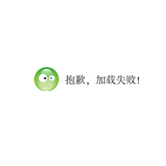
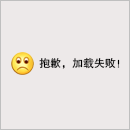
数据改动 占位图片改动

Changed region(s): [[0.0, 0.0, 1.0, 1.0], [0.0615, 0.4, 0.9231, 0.5846]]

diff --git a/XinNet/class/ market/controll/marketController.m b/XinNet/class/ market/controll/marketController.m
@@ -135,10 +135,17 @@
     _pageNum++;
     self.page = [NSString stringWithFormat:@"%d",_pageNum];
     
-     [self addMBprogressView];
     if (_moreSelectedBtn.tag ==30) {
         [marketTOOL statusesWithSuccess:^(NSArray *statues) {
-            [MBProgressHUD hideAllHUDsForView:self.view animated:YES];
+            if (statues.count < 10) {
+                isLoadMore = NO;
+                _footer.hidden = YES;
+                [RemindView showViewWithTitle:@"数据加载完毕" location:MIDDLE];
+            }else
+            {
+                isLoadMore = YES;
+                _footer.hidden = NO;
+            }
 
             if (statues.count < 10) {
                 isLoadMore = NO;
@@ -154,12 +161,20 @@
             [_tableView reloadData];
             [refreshView endRefreshing];
         }  keywords_Id:@"" category_Id:_category_Index page:self.page  failure:^(NSError *error) {
-            [MBProgressHUD hideAllHUDsForView:self.view animated:YES];
 
         }];
     }else if (_moreSelectedBtn.tag==31){
         [marketTOOL statusesWithSuccess:^(NSArray *statues) {
-            [MBProgressHUD hideAllHUDsForView:self.view animated:YES];
+            if (statues.count < 10) {
+                isLoadMore = NO;
+                _footer.hidden = YES;
+                [RemindView showViewWithTitle:@"数据加载完毕" location:MIDDLE];
+            }else
+            {
+                isLoadMore = YES;
+                _footer.hidden = NO;
+            }
+
             if (statues.count < 10) {
                 isLoadMore = NO;
                 _footer.hidden = YES;
@@ -175,13 +190,21 @@
             [refreshView endRefreshing];
             
         }  keywords_Id:@"" category_Id:@"4" page:self.page  failure:^(NSError *error) {
-            [MBProgressHUD hideAllHUDsForView:self.view animated:YES];
 
             
         }];
     }else{
     [marketTOOL statusesWithSuccess:^(NSArray *statues) {
-        [MBProgressHUD hideAllHUDsForView:self.view animated:YES];
+        if (statues.count < 10) {
+            isLoadMore = NO;
+            _footer.hidden = YES;
+            [RemindView showViewWithTitle:@"数据加载完毕" location:MIDDLE];
+        }else
+        {
+            isLoadMore = YES;
+            _footer.hidden = NO;
+        }
+
 
         if (statues.count > 0 && statues.count < 10) {
             isLoadMore = NO;
@@ -197,7 +220,6 @@
         [refreshView endRefreshing];
         
     }  keywords_Id:nil category_Id:nil  page:self.page failure:^(NSError *error) {
-        [MBProgressHUD hideAllHUDsForView:self.view animated:YES];
 
         
     }];
@@ -207,7 +229,7 @@
     _tableView=[[UITableView alloc]initWithFrame:CGRectMake(0, 64, kWidth, kHeight-64) style:UITableViewStylePlain];
     _tableView.delegate =self;
     _tableView.dataSource =self;
-    _tableView.hidden = YES;
+    _tableView.hidden = NO;
     _tableView.backgroundColor =[UIColor whiteColor];
     _tableView.showsHorizontalScrollIndicator = NO;
     _tableView.showsVerticalScrollIndicator = NO;
@@ -322,7 +344,12 @@
         cellLine.backgroundColor =HexRGB(0xe6e3e4);
     }
     marketModel *markModel =[_marketArray objectAtIndex:indexPath.row];
-    [cell.marketImage setImageWithURL:[NSURL URLWithString:markModel.coverimage] placeholderImage:placeHoderImage2];
+    if ([markModel.coverimage isKindOfClass:[NSNull class]]) {
+        
+    }else {
+        [cell.marketImage setImageWithURL:[NSURL URLWithString:markModel.coverimage] placeholderImage:placeHoderImage2];
+        
+    }
     cell.timeLabel.text = markModel.create_time;
     if ([markModel.nametitle isKindOfClass:[NSNull class]]) {
         

diff --git a/XinNet/class/ market/views/marketCell.m b/XinNet/class/ market/views/marketCell.m
@@ -19,13 +19,10 @@
     if (self) {
         
         marketImage = [[UIImageView alloc] initWithFrame:CGRectMake(16, 11, 60, 60)];
-        marketImage.image =[UIImage imageNamed:@""];
-        marketImage.backgroundColor =[UIColor lightGrayColor];
         [self addSubview:marketImage];
         
         
         titleName = [[UILabel alloc] initWithFrame:CGRectMake(86, 11, 215, 20)];
-        titleName.text = @"新闻标题";
         titleName.font =[UIFont systemFontOfSize:PxFont(23)];
         [self addSubview:titleName];
         titleName.textColor=HexRGB(0x3a3a3a);
@@ -34,7 +31,6 @@
         
         
         fromLabel = [[UILabel alloc] initWithFrame:CGRectMake(86, 32, 190, 20)];
-        fromLabel.text = @"来源";
         [self addSubview:fromLabel];
         fromLabel.numberOfLines = 0;
         fromLabel.font =[UIFont systemFontOfSize:PxFont(18)];
@@ -42,7 +38,6 @@
         
         
         timeLabel = [[UILabel alloc] initWithFrame:CGRectMake(86, 52, 150, 20)];
-        timeLabel.text = @"时间";
         [self addSubview:timeLabel];
         timeLabel.font =[UIFont systemFontOfSize:PxFont(18)];
         timeLabel.textColor = HexRGB(0x808080);

diff --git a/XinNet/class/business/controll/businessController.m b/XinNet/class/business/controll/businessController.m
@@ -181,6 +181,7 @@
                 if (statues.count < 10) {
                     isLoadMore = NO;
                     _footer.hidden = YES;
+                    [RemindView showViewWithTitle:@"数据加载完毕" location:MIDDLE];
                 }else
                 {
                     isLoadMore = YES;
@@ -197,6 +198,8 @@
             if (statues.count < 10) {
                 isLoadMore = NO;
                 _footer.hidden = YES;
+                [RemindView showViewWithTitle:@"数据加载完毕" location:MIDDLE];
+
             }else
             {
                 isLoadMore = YES;
@@ -214,6 +217,8 @@
             if (statues.count < 10) {
                 isLoadMore = NO;
                 _footer.hidden = YES;
+                [RemindView showViewWithTitle:@"数据加载完毕" location:MIDDLE];
+
             }else
             {
                 isLoadMore = YES;

diff --git a/XinNet/class/companyJob/controll/companyJOBController.m b/XinNet/class/companyJob/controll/companyJOBController.m
@@ -124,8 +124,13 @@
     }
     
     [companyJobTool statusesWithSuccess:^(NSArray *statues) {
-
-        [_tableView reloadData];
+        if (statues.count ==0) {
+            dataLabel.hidden =NO;
+            _tableView.hidden = YES;
+        }else{
+            dataLabel.hidden = YES;
+            _tableView.hidden =NO;
+        }
         [_companyJobArray removeAllObjects];
         [_companyJobArray addObjectsFromArray:statues];
         _pageNum = _companyJobArray.count % 10 + 1;
@@ -140,6 +145,7 @@
     _tableView=[[UITableView alloc]initWithFrame:CGRectMake(0, 0, kWidth, KAppH) style:UITableViewStylePlain];
     _tableView.delegate =self;
     _tableView.dataSource =self;
+    _tableView.hidden =NO;
     _tableView.backgroundColor =[UIColor whiteColor];
     _tableView.showsHorizontalScrollIndicator = NO;
     _tableView.showsVerticalScrollIndicator = NO;

diff --git a/XinNet/class/companyYellow/controll/companyYellowController.m b/XinNet/class/companyYellow/controll/companyYellowController.m
@@ -146,7 +146,7 @@
     _tableView.delegate =self;
     _tableView.dataSource =self;
     _tableView.backgroundColor =[UIColor whiteColor];
-    _tableView.hidden = YES;
+    _tableView.hidden = NO;
     _tableView.showsHorizontalScrollIndicator = NO;
     _tableView.showsVerticalScrollIndicator = NO;
     _tableView.separatorStyle = UITableViewCellSeparatorStyleNone;
@@ -185,7 +185,7 @@
         cellLine.backgroundColor =HexRGB(0xe6e3e4);
     }
     companyListModel *comapnyModel =[_companyArray objectAtIndex:indexPath.row];
-    [cell.logoImage setImageWithURL:[NSURL URLWithString:nil] placeholderImage:placeHoderImage2];
+    [cell.logoImage setImageWithURL:[NSURL URLWithString:comapnyModel.logo] placeholderImage:placeHoderImage2];
     cell.nameLabel.text =comapnyModel.name;
     cell.addressLabel.text =comapnyModel.address;
     return cell;

diff --git a/XinNet/class/product/controll/productController.m b/XinNet/class/product/controll/productController.m
@@ -312,7 +312,6 @@
         [UIView animateWithDuration:0.01 animations:^{
             _orangLin.frame = CGRectMake(scrollView.contentOffset.x/3,YYBORDERH+62, kWidth/3, 2);
         }];
-//        [self addLoadStatus];
         if (scrollView.contentOffset.x==0) {
             for (UIView *subView in companyBackView.subviews) {
                 if ([subView isKindOfClass:[UIButton class]]) {

diff --git a/XinNet/class/home/controll/MainController.m b/XinNet/class/home/controll/MainController.m
@@ -38,7 +38,7 @@
     _homeArray =[NSMutableArray array];
     _hotImageArrayOff =[NSMutableArray array];
 
-    self.view.backgroundColor =HexRGB(0xededed);
+    self.view.backgroundColor =[UIColor whiteColor];
     if ([self respondsToSelector:@selector(edgesForExtendedLayout)]) {
         self.edgesForExtendedLayout = UIRectEdgeNone;
     }
